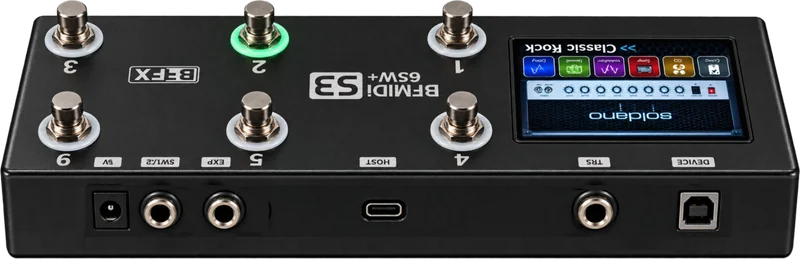
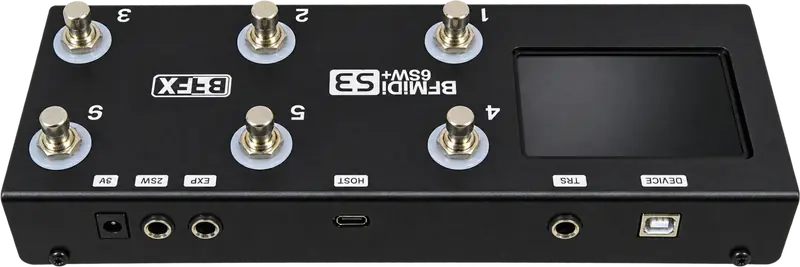
6SW+: fotos novas (chassi com duas fileiras de três e tela ao lado)
- 6sw-hero (página inicial, Comparar, Comprar), 6sw-top nova (Recursos,
  anéis acesos) e 6sw-rear (Conexões), com etiquetas medidas na foto.
- "6 em linha" virou "6 alongada"; texto de Recursos atualizado.
- O chassi novo imprime 2SW: saiu o portTags SW1/2.

diff --git a/js/content.js b/js/content.js
@@ -184,7 +184,8 @@ window.BF_CONTENT = (function () {
        `label` o nome completo da porta, como está na arte.
        `tag`   a etiqueta branca, como a serigrafia do chassi. Um modelo cujo
                chassi imprima outro nome troca só o dele, na banda de
-               conexões (`portTags`) — a 6SW+ chama o dual switch de SW1/2.
+               conexões (`portTags`). (A 6SW+ antiga imprimia SW1/2; o chassi
+               de nov/2026 imprime 2SW, como as outras, e hoje nenhum usa.)
        `name`  o nome em texto; `role` o que a porta faz, numa frase.
        `group` a família no painel. Portas vizinhas com o mesmo `group`
                ficam sob a mesma etiqueta ("Saídas MIDI", "USB"…).
@@ -296,17 +297,21 @@ window.BF_CONTENT = (function () {
       {
         hash: '6sw',
         tab: '6SW+',
-        note: ['6 em linha', 'tela 3,5″'],
+        /* Fotos novas em 05/11/2026 (pedido do dono): o chassi atual tem os
+           seis footswitches em duas fileiras de três, com a tela à esquerda,
+           e imprime 2SW (não mais SW1/2) na entrada dos footswitches
+           externos. */
+        note: ['6 alongada', 'tela 3,5″'],
         id: 'BFMIDI 6SW+',
         h1: ['BFMIDI', '6SW+'],
         lead: 'Seis footswitches, tela colorida e acesso ao modo LIVE.',
         cta: 'Ver detalhes',
         shot: '6sw-hero',
-        shotAlt: 'BFMIDI 6SW+ vista de cima: seis footswitches em linha, tela colorida ' +
-                 'com amplificador e o preset Classic Rock, anel verde aceso no ' +
-                 'footswitch 2, e as conexões DEVICE, TRS, HOST, EXP, SW1/2 e 9V na ' +
-                 'borda de cima.',
-        /* O que a foto mostra na borda de cima: DEVICE, TRS, HOST, EXP e SW1/2
+        shotAlt: 'BFMIDI 6SW+ vista de cima: seis footswitches em duas fileiras de ' +
+                 'três, anel azul aceso no footswitch 1, tela colorida à esquerda ' +
+                 'com um amplificador num estúdio, e as conexões DEVICE, TRS, HOST, ' +
+                 'EXP, 2SW e 9V na borda de cima.',
+        /* O que a foto mostra na borda de cima: DEVICE, TRS, HOST, EXP e 2SW
            (mais o 9V). Sem DIN5, como a NANO+. */
         ports: ['trs', 'usbDevice', 'usbHost', 'bluetooth', 'wifi', 'dualSw', 'exp'],
         switches: 6,
@@ -341,15 +346,19 @@ window.BF_CONTENT = (function () {
             href: 'https://wa.me/5516992274195?text=Ol%C3%A1%20Branco%21%20Quero%20entrar%20no%20grupo%20de%20espera%20do%20pr%C3%B3ximo%20lote%20da%20BFMIDI%206SW%2B.'
           }
         },
-        /* A banda de INFO não traz `img` e cai na foto principal (main.js);
-           a de CONEXÕES tem a foto traseira. */
+        /* A banda de INFO tem a vista de cima com os anéis acesos (como a
+           8SW+ e a NANO+); a de CONEXÕES tem a foto traseira. */
         bands: [
           {
             panel: 'info',
+            img: '6sw-top',
+            alt: 'BFMIDI 6SW+ vista de cima com os seis anéis de LED acesos em ' +
+                 'cores diferentes e a tela mostrando o preset MODERN AMBIENT com ' +
+                 'ícones e pedais de efeito.',
             title: 'Recursos da 6SW+',
-            body: 'Seis footswitches em linha e a mesma tela colorida da 8SW+, num ' +
-                  'corpo baixo e estreito. Sem footswitch dedicado, o LIVE MODE ' +
-                  'entra pisando o 1 e o 2 juntos.',
+            body: 'Seis footswitches em duas fileiras de três e a mesma tela colorida ' +
+                  'da 8SW+, ao lado, num corpo baixo e estreito. Sem footswitch ' +
+                  'dedicado, o LIVE MODE entra pisando o 1 e o 2 juntos.',
             list: [
               'Seis footswitches com anel de LED próprio',
               'LIVE MODE pisando os footswitches 1 e 2 juntos',
@@ -359,19 +368,20 @@ window.BF_CONTENT = (function () {
           {
             panel: 'conects',
             img: '6sw-rear',
-            size: [1600, 517],
-            floor: 99.3,
+            size: [1600, 535],
+            floor: 98.3,
             alt: 'Painel traseiro da BFMIDI 6SW+ com as conexões identificadas: ' +
-                 '9V, SW1/2, EXP, USB HOST, TRS e USB DEVICE.',
+                 '9V, 2SW, EXP, USB HOST, TRS e USB DEVICE.',
             title: 'Cabo, USB',
             hot: 'e sem fio.',
             body: 'MIDI por TRS e por USB, mais a porta USB HOST para controlar pedais ' +
                   'USB sem computador. As entradas de expressão e de footswitches ' +
                   'externos ficam na mesma borda, ao lado do 9V.',
-            silk: [['9V', 13.4], ['SW1/2', 19.9], ['EXP', 26.9], ['HOST', 47.2],
-                   ['TRS', 74.2], ['DEVICE', 86.6]],
-            /* O chassi da 6SW+ imprime SW1/2 onde as outras imprimem 2SW. */
-            portTags: { dualSw: 'SW1/2' }
+            /* Medidas na foto traseira de 05/11/2026 (centro de cada conector,
+               em % da largura). O chassi novo imprime 2SW, como as outras,
+               então o `portTags` com SW1/2 saiu. */
+            silk: [['9V', 14.1], ['2SW', 19.7], ['EXP', 25.7], ['HOST', 43.9],
+                   ['TRS', 70.7], ['DEVICE', 82.4]]
           }
         ]
       },

diff --git a/index.html b/index.html
@@ -94,7 +94,7 @@ if (!location.hash || /^#8sw\/?$/i.test(location.hash)) document.head.insertAdja
   <nav class="mstrip" id="mstrip" aria-label="Modelos BFMIDI">
     <div class="mstrip__in">
       <a class="mstrip__card" href="#8sw" data-go="model:0" aria-current="page"><span class="mstrip__img"><img src="assets/8sw-hero-front-thumb.webp" alt="" decoding="async"></span><span class="mstrip__txt"><span class="mstrip__name">8SW+</span><span class="mstrip__note"><span class="note-a">8 foots</span><span class="note-b"> · tela 3,5″</span></span></span></a>
-      <a class="mstrip__card" href="#6sw" data-go="model:1"><span class="mstrip__img"><img src="assets/6sw-hero-thumb.webp" alt="" decoding="async"></span><span class="mstrip__txt"><span class="mstrip__name">6SW+</span><span class="mstrip__note"><span class="note-a">6 em linha</span><span class="note-b"> · tela 3,5″</span></span></span></a>
+      <a class="mstrip__card" href="#6sw" data-go="model:1"><span class="mstrip__img"><img src="assets/6sw-hero-thumb.webp" alt="" decoding="async"></span><span class="mstrip__txt"><span class="mstrip__name">6SW+</span><span class="mstrip__note"><span class="note-a">6 alongada</span><span class="note-b"> · tela 3,5″</span></span></span></a>
       <a class="mstrip__card" href="#nano" data-go="model:2"><span class="mstrip__img"><img src="assets/nano-hero-thumb.webp" alt="" decoding="async"></span><span class="mstrip__txt"><span class="mstrip__name">NANO+</span><span class="mstrip__note"><span class="note-a">6 compacta</span><span class="note-b"> · tela 3,5″</span></span></span></a>
       <a class="mstrip__card" href="#micro" data-go="model:3"><span class="mstrip__img"><img src="assets/micro-hero-thumb.webp" alt="" decoding="async"></span><span class="mstrip__txt"><span class="mstrip__name">MICRO S3</span><span class="mstrip__note"><span class="note-a">4 foots</span><span class="note-b"> · tela 3,5″</span></span></span></a>
       <a class="mstrip__cmp" href="#8sw/comparar" data-go="view:comparar"><svg class="nav-icon" viewBox="0 0 24 24" fill="none" stroke="currentColor" stroke-width="1.7" stroke-linecap="round" stroke-linejoin="round" aria-hidden="true"><path d="M8 3v18M16 3v18"/><path d="M3 8h5M3 16h5M16 8h5M16 16h5"/></svg><span>Comparar</span></a>

diff --git a/js/main.js b/js/main.js
@@ -183,7 +183,7 @@
      Foto nova sem entrada aqui: caixa = arquivo inteiro, proporção 3:2. */
   var HOME_MEDIA = {
     '8sw-hero-front': { w: 1600, h: 1146, sm: 800, md: 0,    body: [1, 1.25, 1.05, 0.96] },
-    '6sw-hero':       { w: 1600, h: 563,  sm: 800, md: 1200, body: [0, 0, 0.18, 0.18] },
+    '6sw-hero':       { w: 1600, h: 541,  sm: 800, md: 1200, body: [0, 0, 0, 0] },
     'nano-hero':      { w: 1536, h: 1024, sm: 800, md: 1200, body: [2.2, 2.15, 6.93, 8.59] },
     'micro-hero':     { w: 1494, h: 1398, sm: 800, md: 1200, body: [0, 0, 0, 0] }
   };
@@ -467,7 +467,8 @@
   var INFO_MEDIA = {
     '8sw-top':    { w: 1200, h: 867,  body: [0.5, 0.4, 7.8, 5.6], screen: '320 60 470 300' },
     'nano-top':   { w: 1200, h: 805,  body: [0.5, 3.0, 0.6, 9.2], screen: '340 206 520 324' },
-    '6sw-hero':   { w: 1600, h: 563,  body: [0, 0, 0, 0],         screen: '70 104 480 336' },
+    '6sw-hero':   { w: 1600, h: 541,  body: [0, 0, 0, 0],         screen: '65 93 482 315' },
+    '6sw-top':    { w: 1600, h: 543,  body: [0, 0, 0, 0],         screen: '62 89 485 316' },
     'micro-hero': { w: 1494, h: 1398, body: [0, 0, 0, 0],         screen: '249 372 993 673' }
   };
 
@@ -1107,8 +1108,8 @@
 
     /* Conexões: etiqueta curta à vista (serigrafia), descrição longa de
        `ports` para o leitor de tela. Chave desconhecida é pulada. Um
-       chassi que imprime outro nome (a 6SW+ chama o dual switch de SW1/2)
-       declara isso no `portTags` da banda de conexões, e o SHOP usa o
+       chassi que imprime outro nome (a 6SW+ antiga chamava o dual switch de
+       SW1/2) declara isso no `portTags` da banda de conexões, e o SHOP usa o
        mesmo nome da foto e do IN/OUT. */
     var keys = (m.ports || []).filter(function (k) { return C.ports && C.ports[k]; });
     var tags = C.buy.portTags || {};

diff --git a/css/shop.css b/css/shop.css
@@ -540,7 +540,7 @@
   }
 }
 
-/* 6SW+: a foto é quase 3:1 (seis footswitches em linha). No palco padrão
+/* 6SW+: a foto é quase 3:1 (corpo de 26 × 9 cm). No palco padrão
    ela pousaria no chão com meio palco vazio em cima; um palco mais baixo
    mantém o aparelho do mesmo tamanho e tira o vazio. */
 #panel-comprar .shop--6sw .shop-stage { aspect-ratio: 2; }
